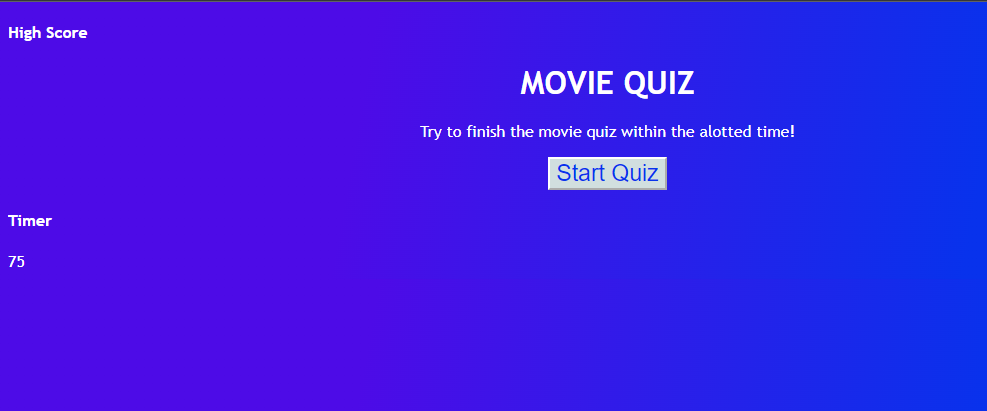
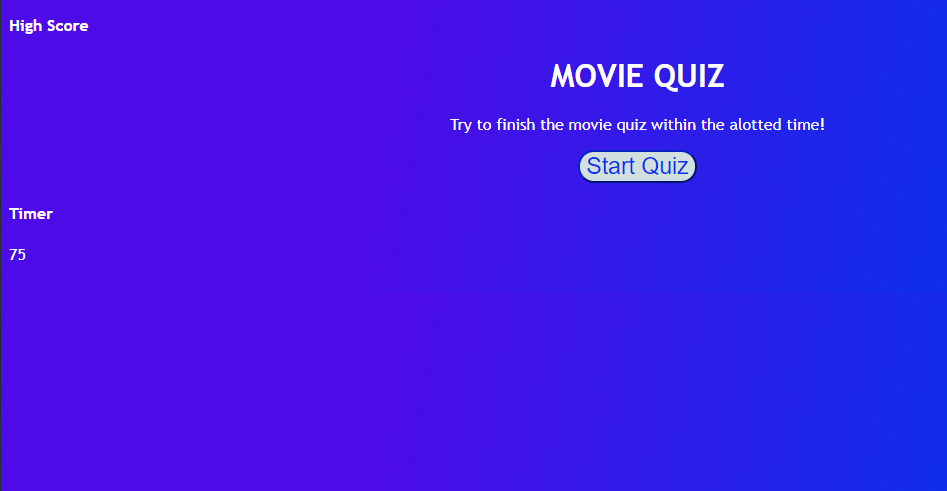
button

diff --git a/index.html b/index.html
@@ -20,13 +20,17 @@
       <div id="question">Question</div>
       <ol id="answer-click" class="btn-list"></ol>
     </div>
-    
+
     <div class="click" id="click"></div>
 
-    <div id="timer"><h4>Timer</h4><span>75</span></div>
-    
-    <div id="results" class="hide">Results</div>
-    
+    <div id="timer">
+      <h4>Timer</h4>
+      <span>75</span>
+    </div>
+
+    <div id="results" class="hide">All Done<br />Your final score is</div>
+    <input id="names" class="hide" placeholder="Your initials" />
+
     <script src="assets/js/script.js"></script>
   </body>
 </html>

diff --git a/assets/css/style.css b/assets/css/style.css
@@ -12,7 +12,7 @@ body {
 #start-btn {
   font-size: 23px;
   background-color: rgb(209, 223, 223);
-  border-color: white;
+  border-color: rgb(6, 34, 197);
   color: #0832ec;
   bottom: 20%;
   display: flex;
@@ -20,6 +20,8 @@ body {
   align-items: center;
   margin: 0 auto;
   display: block;
+
+  border-radius: 16px;
 }
 
 .hide {
@@ -47,8 +49,12 @@ ol {
 }
 
 #results {
-    text-align: center;
-    overflow: hidden;
-  }
+  text-align: center;
+  overflow: hidden;
+}
 
-
+#names {
+  margin: auto;
+  display: block;
+  text-align: center;
+}
